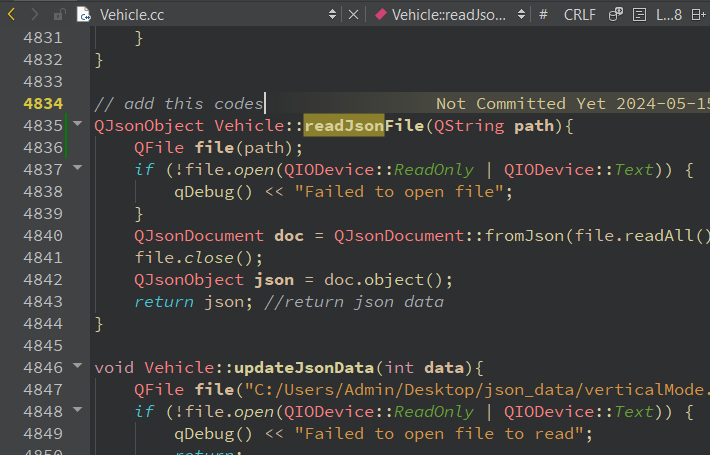
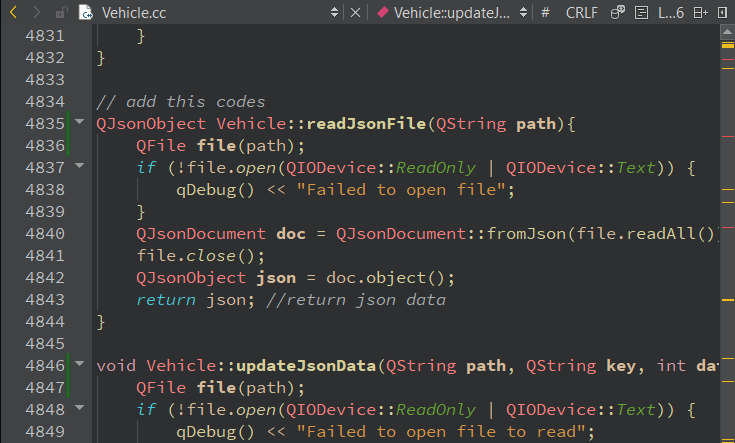
modify QT md file

diff --git a/QTModification.md b/QTModification.md
@@ -6,7 +6,7 @@ Navigate and open Vehicle.h, insert this 2 line of code inside Vehicle class >> 
 
 ```
     Q_INVOKABLE QJsonObject readJsonFile(QString path);
-    Q_INVOKABLE void updateJsonData(int data);
+    Q_INVOKABLE void updateJsonData(QString path, QString key, int data);
 ```
 ![alt text](./assets/vehicleh.png)
 
@@ -24,8 +24,8 @@ QJsonObject Vehicle::readJsonFile(QString path){
     return json; //return json data
 }
 
-void Vehicle::updateJsonData(int data){
-    QFile file("C:/Users/Admin/Desktop/json_data/verticalMode.json");
+void Vehicle::updateJsonData(QString path, QString key, int data){
+    QFile file(path);
     if (!file.open(QIODevice::ReadOnly | QIODevice::Text)) {
         qDebug() << "Failed to open file to read";
         return;
@@ -37,7 +37,7 @@ void Vehicle::updateJsonData(int data){
         return;
     }
     QJsonObject json = doc.object();
-    json["isVerticalActive"] = data; // changing the value using parameter
+    json[key] = data; // changing the value using parameter
     doc.setObject(json); //change the document value
     file.write(doc.toJson(QJsonDocument::JsonFormat::Indented)); //write to the file
     file.encodeName("UTF-8");
